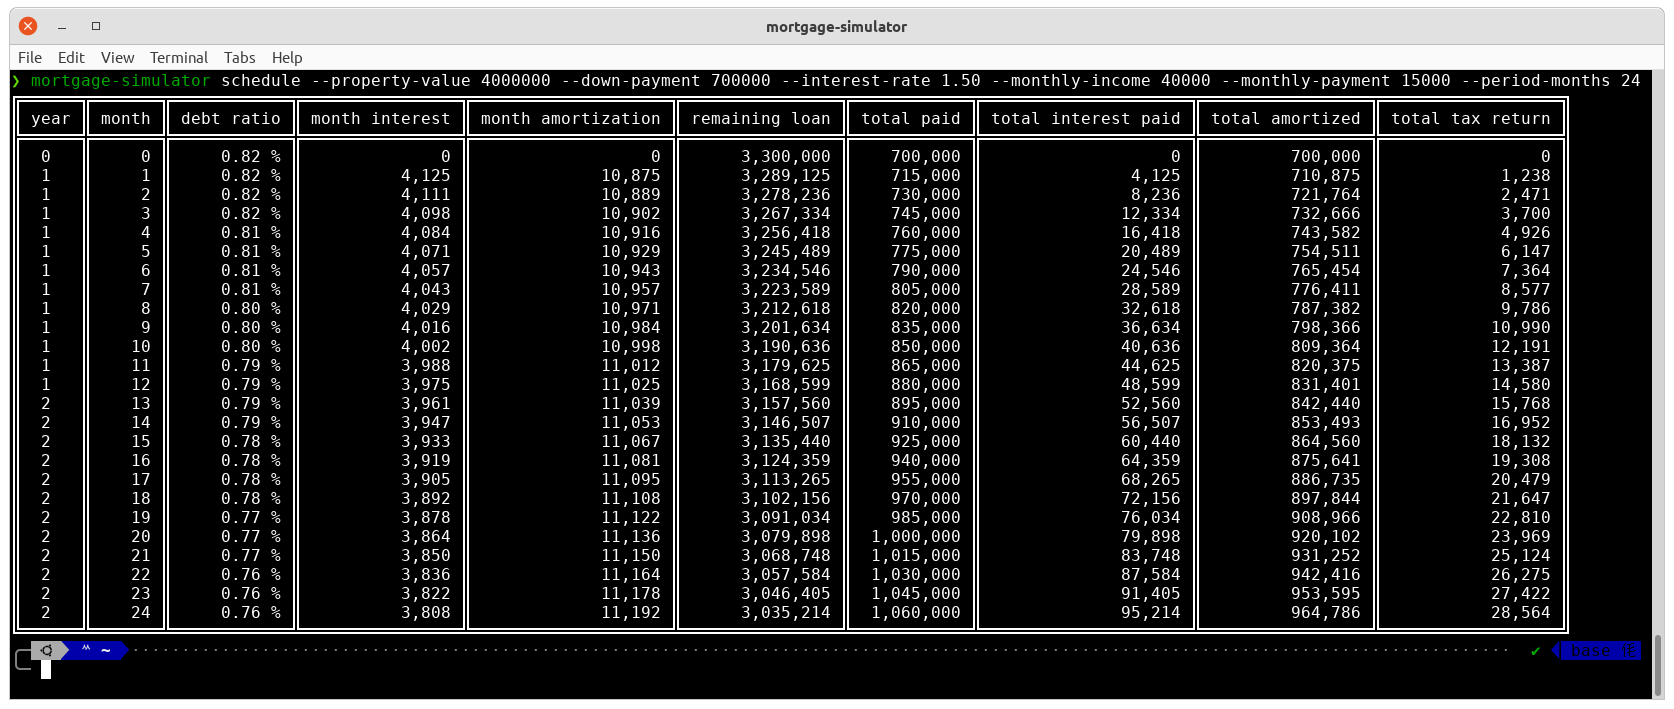
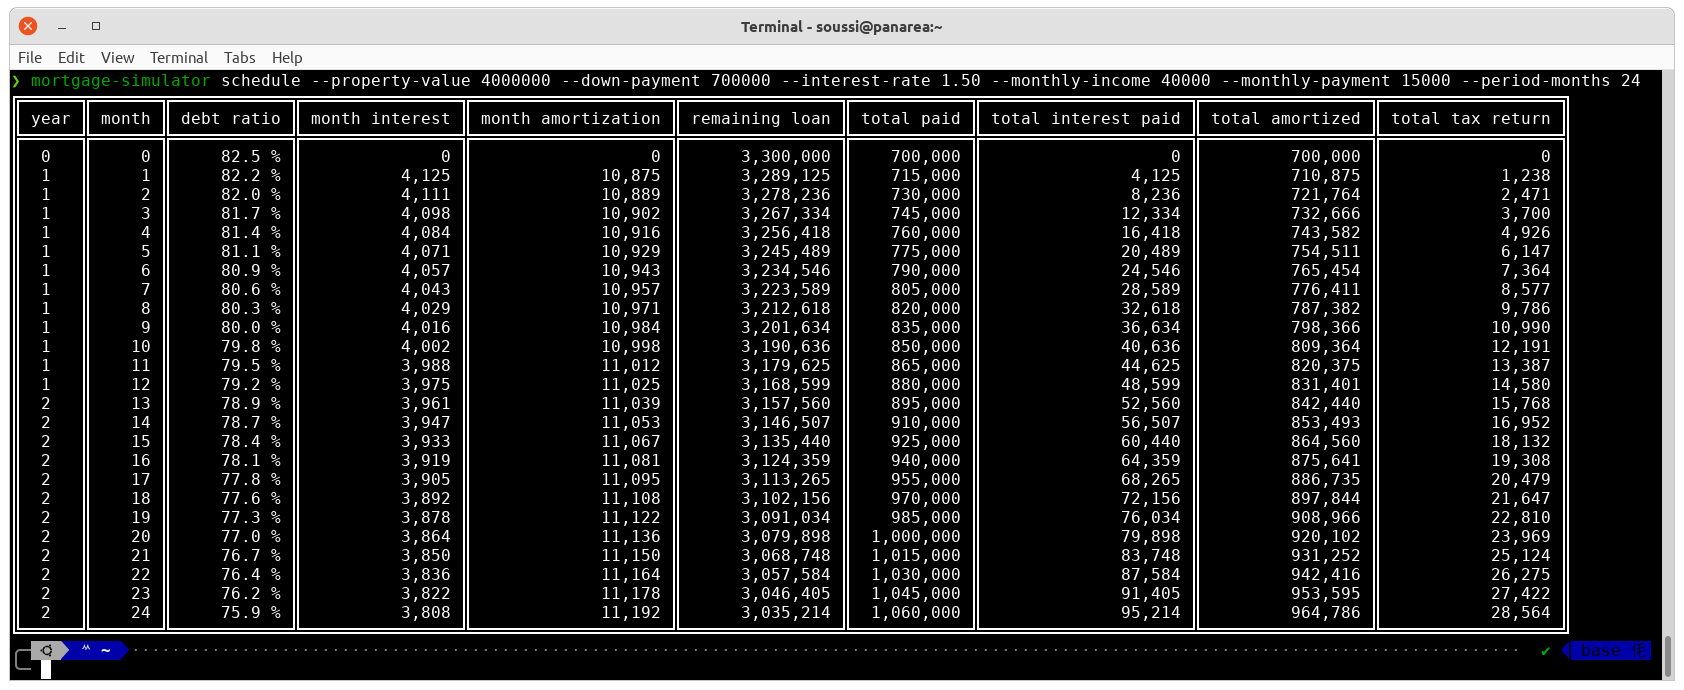
Fix percentage in schedule report

Changed region(s): [[0.0, 0.0609, 0.994, 1.0], [0.4349, 0.0304, 0.5591, 0.0609], [0.0621, 0.3348, 0.0932, 0.3957]]

diff --git a/mortgage_simulator/schedule_report.py b/mortgage_simulator/schedule_report.py
@@ -35,7 +35,7 @@ def _reformat_data(data: Dict[str, Any]) -> Dict[str, List[str]]:
     data_f = dict()
     data_f["year"] = [f"{y:-2}" for y in data["year"]]
     data_f["month"] = [f"{m:-2}" for m in data["month"]]
-    data_f["debt ratio"] = [f"{r:.2f} %" for r in data["debt ratio"]]
+    data_f["debt ratio"] = [f"{r * 100:.1f} %" for r in data["debt ratio"]]
     data_f["month interest"] = [f"{round(mi):,}" for mi in data["month interest"]]
     data_f["month amortization"] = [f"{round(mi):,}" for mi in data["month amortization"]]
     data_f["remaining loan"] = [f"{round(r):,}" for r in data["remaining loan"]]
